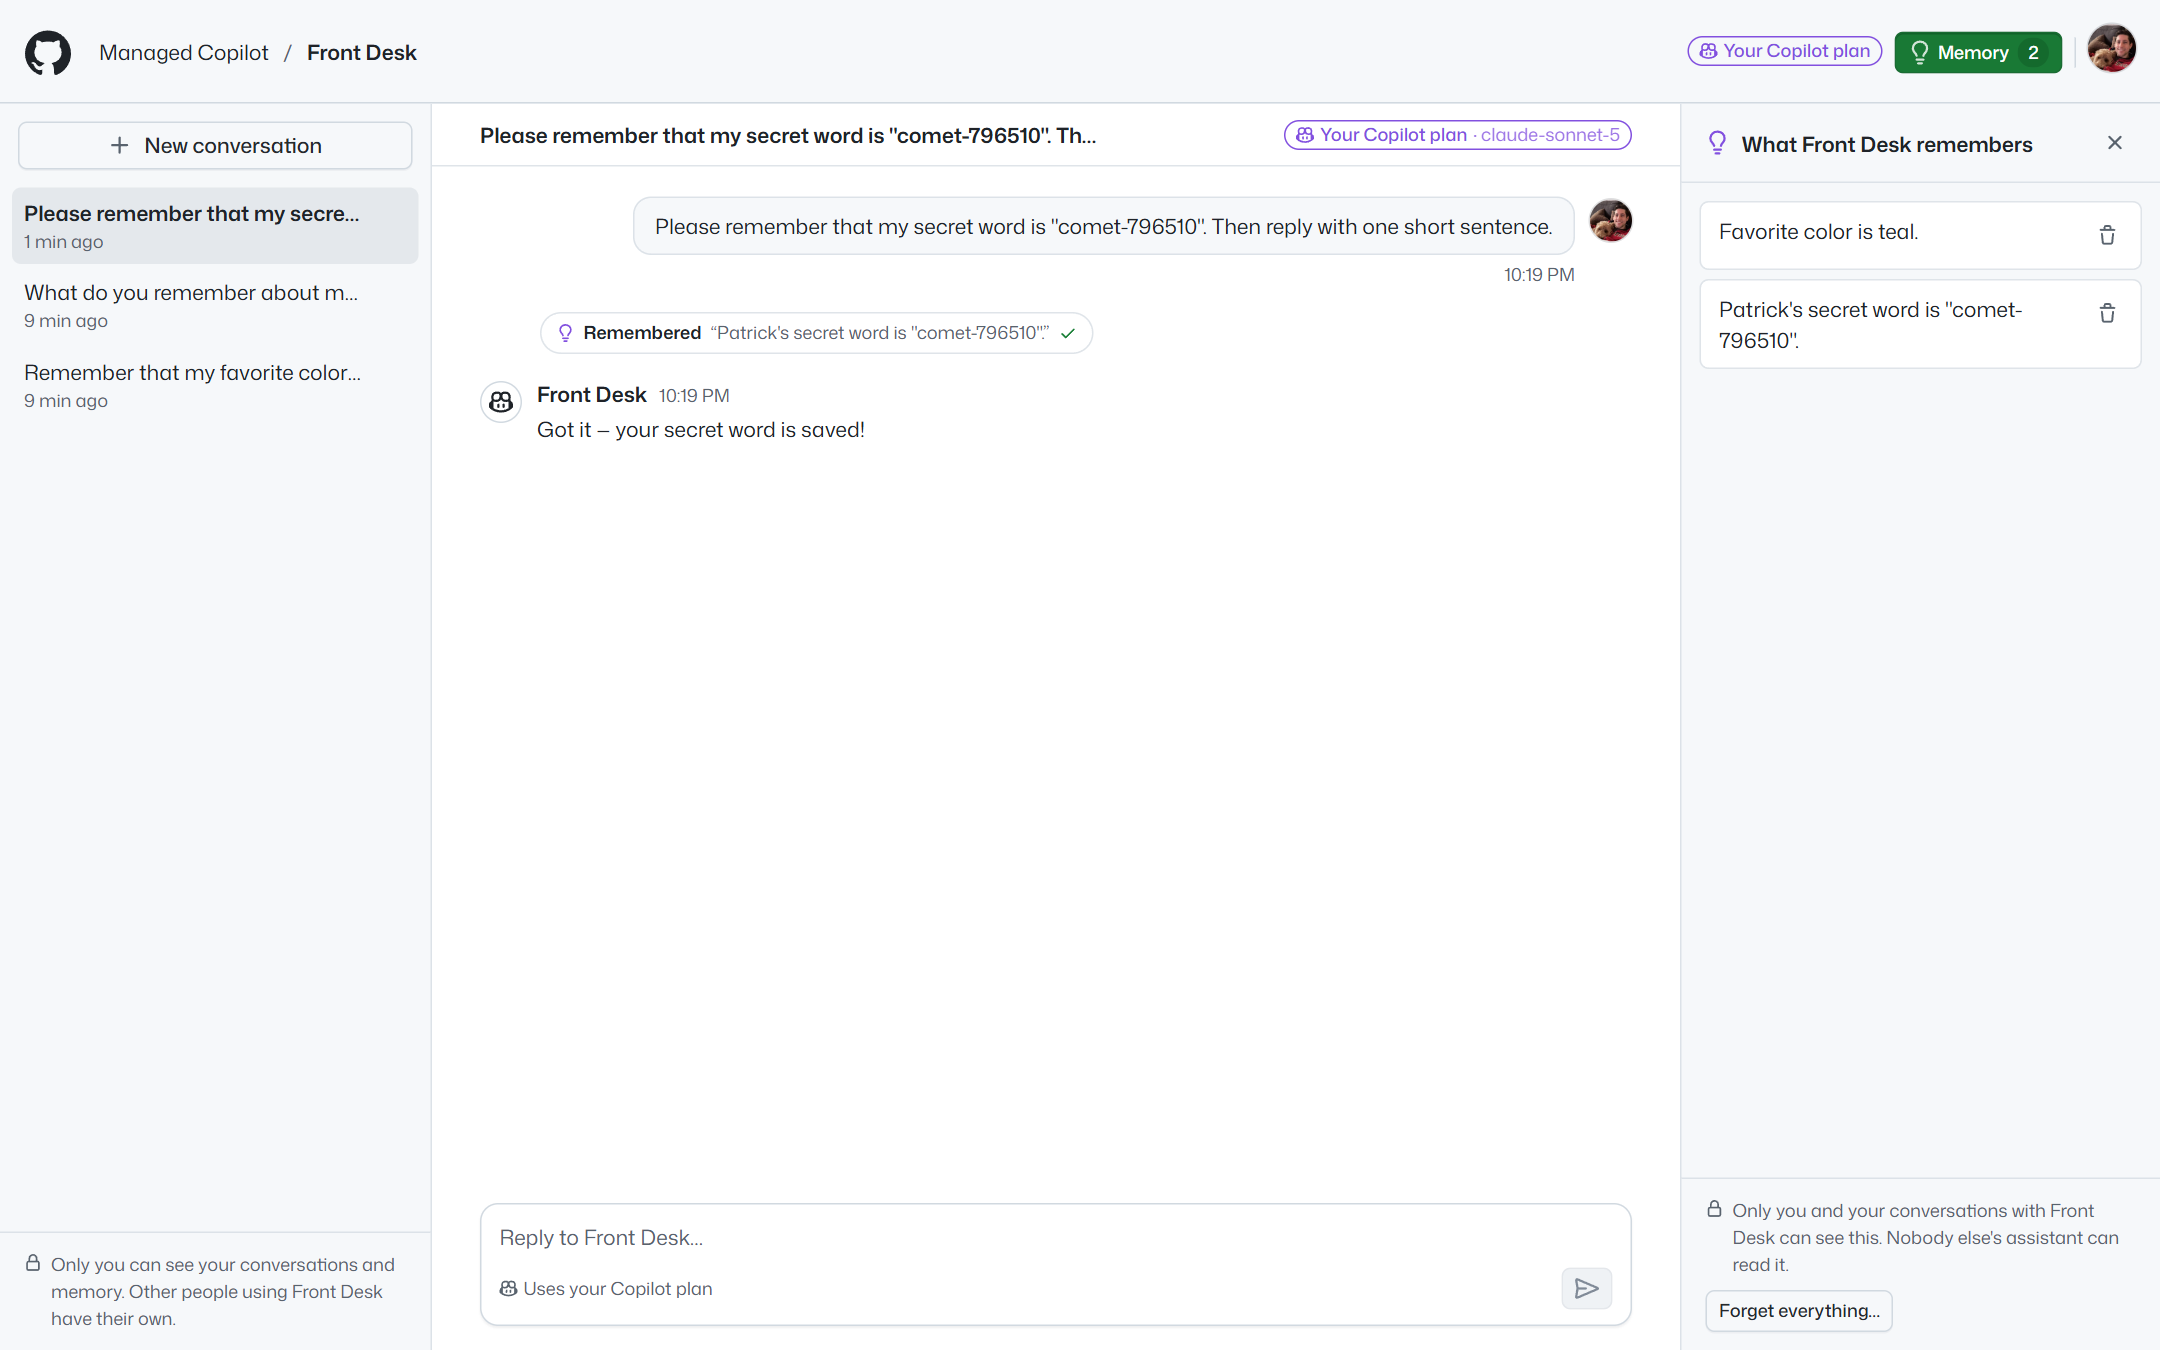
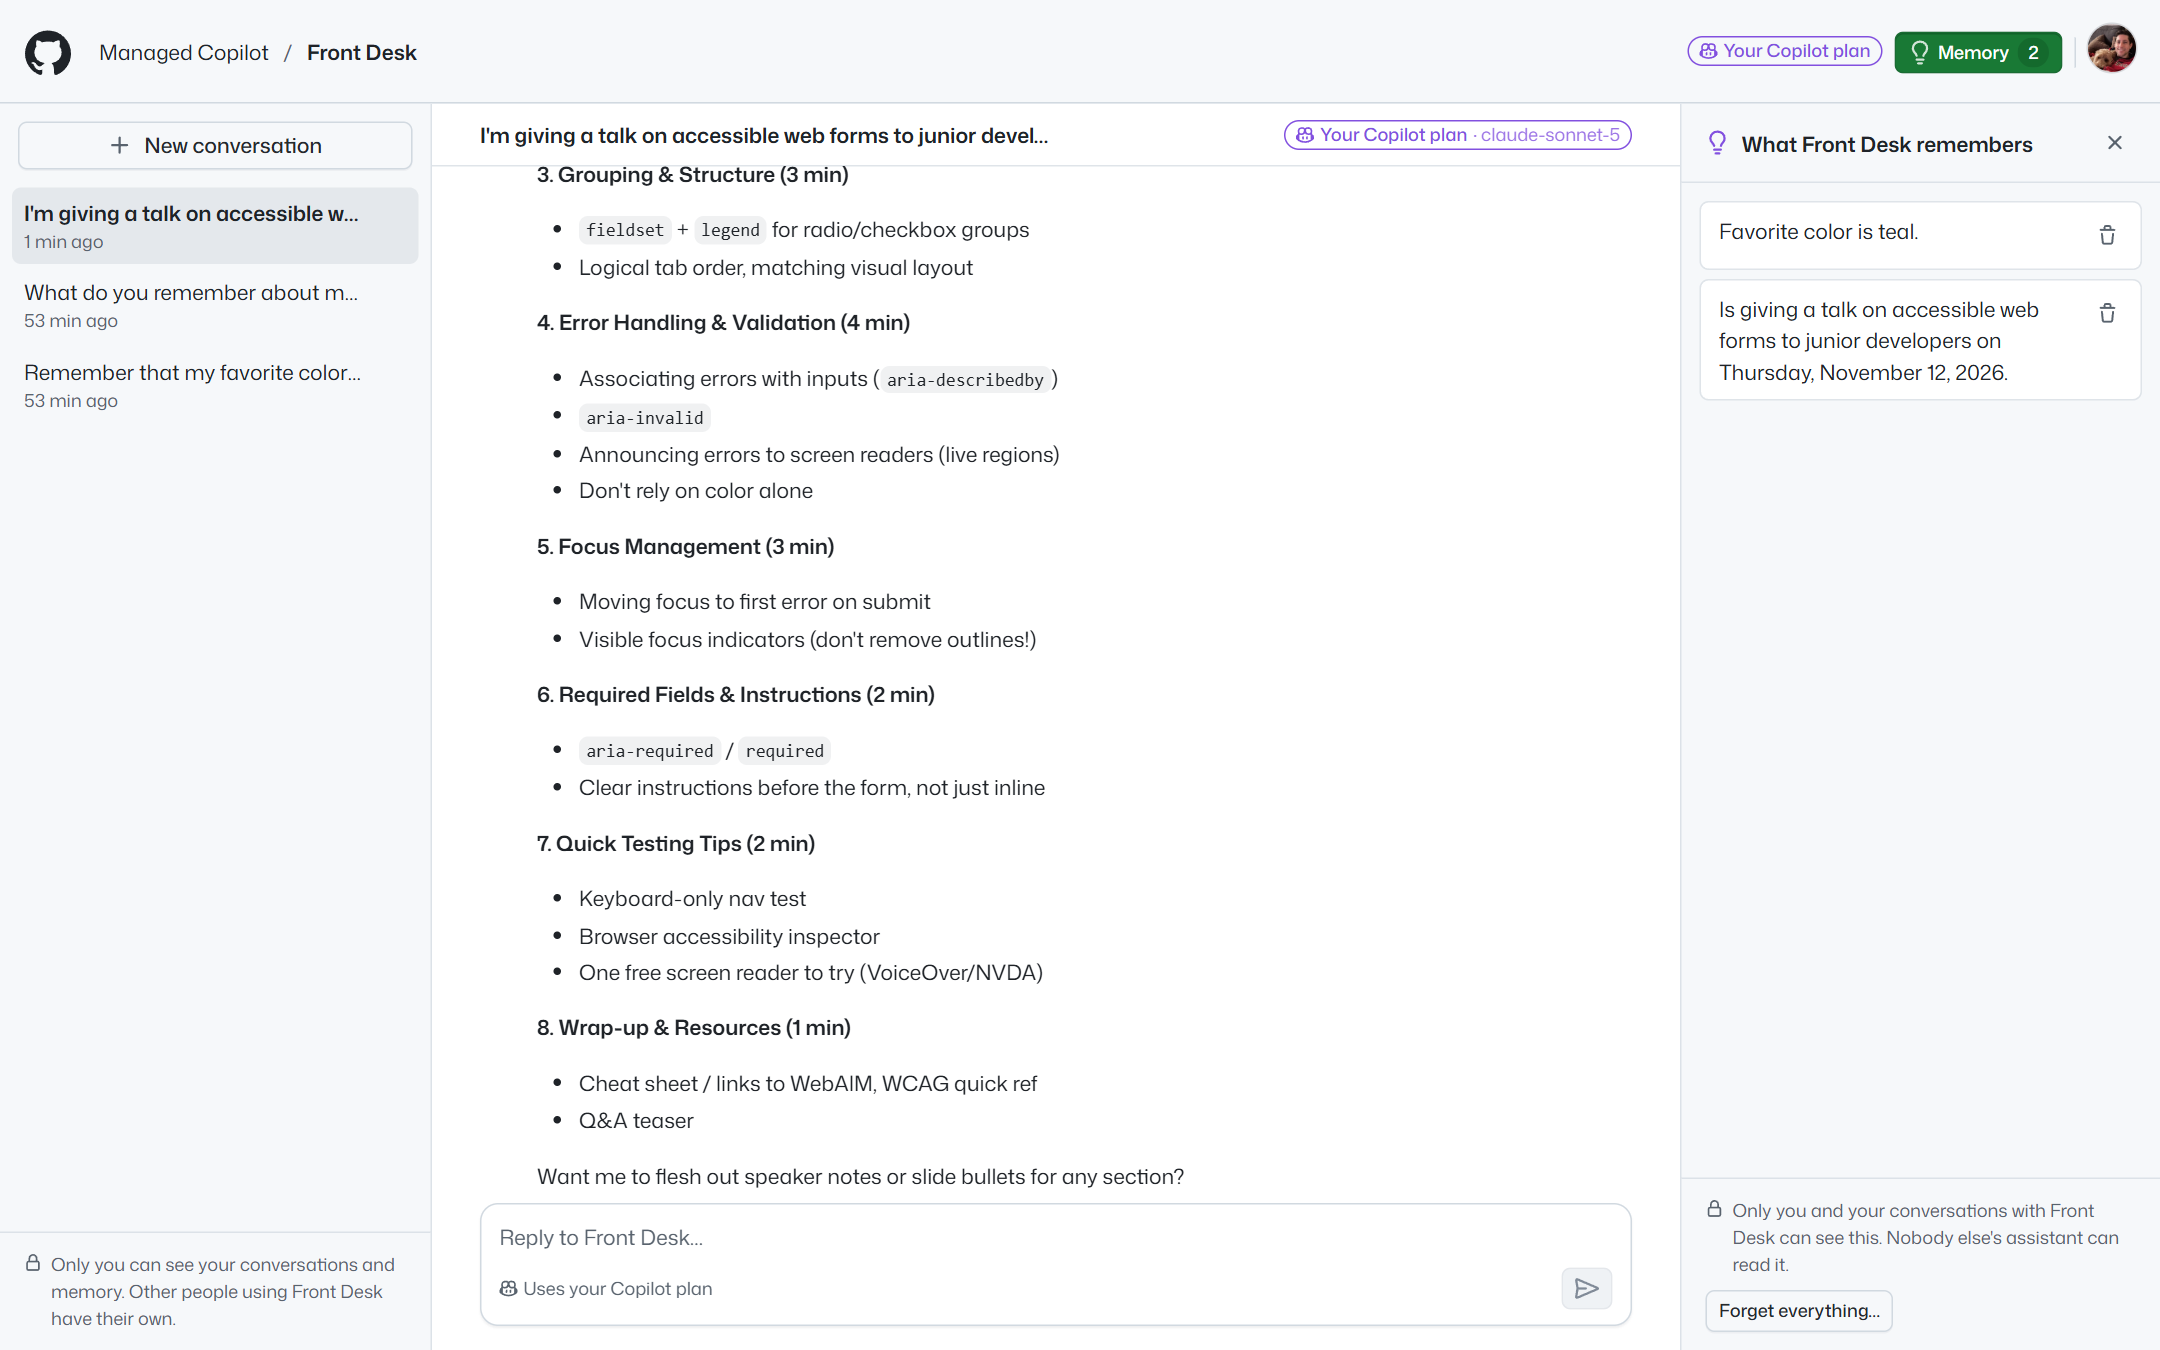
front-desk: screenshots of both kinds of user, and the verified combined run
An email user on Front Desk's Azure AI Foundry (grok-4.7) beside a GitHub user on their own Copilot plan, captured
from aspire run with the Foundry route merged. The README records the live end to end (34 of 34 checks: two
email users on Foundry, one GitHub user on their plan, isolation between all three) and the gateway log that agrees.

diff --git a/demos/front-desk/README.md b/demos/front-desk/README.md
@@ -7,10 +7,15 @@ and a memory that only they can see. Nobody, not even someone who guesses a conv
 It shows how to build an app for other people on the platform: the app never acts as whoever deployed it, and every
 call it makes to Managed Copilot carries the signed-in person's own credential.
 
-![A GitHub user in Front Desk: a conversation where the assistant saved their secret word to memory, and the memory panel listing what it remembers about them](docs/screenshots/github-user.png)
+![A GitHub user in Front Desk: the assistant outlined their talk and saved it to memory; the chips say their own Copilot plan pays, on claude-sonnet-5](docs/screenshots/github-user.png)
 
-*A GitHub user's conversation. The assistant called its `remember` tool (it runs in Front Desk, bound to this person),
-and the memory panel lists what it remembers about them. The chip at the top says where their model use goes.*
+*A GitHub user's conversation, on their own Copilot plan. The assistant called its `remember` tool (it runs in Front
+Desk, bound to this person), and the memory panel lists what it remembers about them.*
+
+![Maya, who signed up with an email: the assistant planned her Lisbon trip and remembered she's vegetarian; the chips say Front Desk's Azure AI Foundry pays, on grok-4.7, with 49 of 50 messages left today](docs/screenshots/email-user.png)
+
+*Maya has no GitHub account. Front Desk vouches for her with its app key, so her conversation runs as her own app user
+on the platform and Front Desk's Azure AI Foundry pays, within her daily allowance.*
 
 | Who | Signs in with | Their conversations run as | Model use billed to |
 | --- | --- | --- | --- |
@@ -184,7 +189,18 @@ pnpm --filter @managed-copilot/demo-front-desk e2e -- --url http://localhost:745
 
 Each person saves a secret to their memory, then every other person is checked to see none of it: their list,
 opening, sending to, stopping, or deleting the conversation by ID, their memory, their live events, and asking their own
-assistant. It prints where each person's model use went.
+assistant. Then it reads Managed Copilot's own record of each session (`SessionInfo.owner` and `SessionInfo.inference`)
+and prints where each person's model use went. A run with Foundry configured (34 of 34 checks passed):
+
+```text
+Where each person's model use went (Managed Copilot's own record of each session):
+  email user 1   front-desk-e2e-89b913-1@example.com  →  Azure AI Foundry (mc-foundry-dev), grok-4.7  [owner app-user front-desk/u_oq91jSJ_o381AVDD]
+  email user 2   front-desk-e2e-89b913-2@example.com  →  Azure AI Foundry (mc-foundry-dev), grok-4.7  [owner app-user front-desk/u_W-DFZqgOUF_AL3nn]
+  GitHub user    @patniko  →  their Copilot plan, claude-sonnet-5  [owner github patniko]
+```
+
+The gateway's log agrees: it logs "Session model calls go to Azure AI Foundry" with the session ID and owner for each
+email user's session, and never for the GitHub user's.
 
 ## Layout
 
